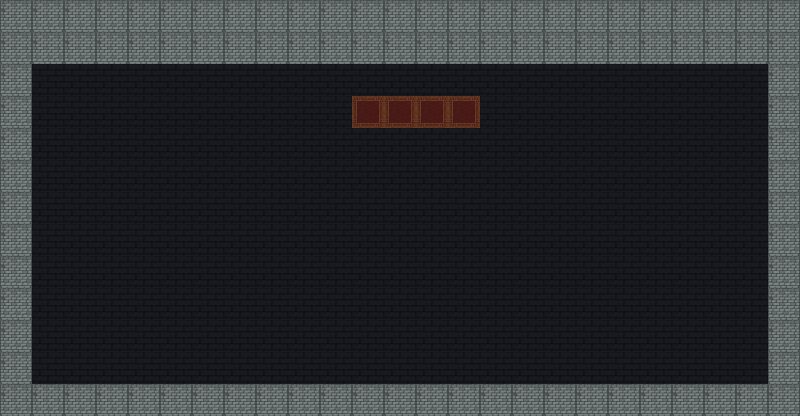
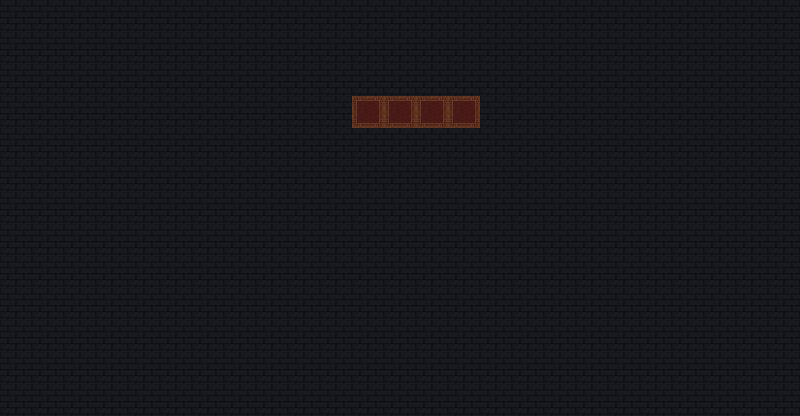
adding background images for all rooms

Changed region(s): [[0.0, 0.0, 1.0, 1.0]]

diff --git a/webgame/src/internal/mapLogic/engine/utils/BackgroundLayerUtils.ts b/webgame/src/internal/mapLogic/engine/utils/BackgroundLayerUtils.ts
@@ -2,9 +2,28 @@ import * as pako from 'pako'
 
 const tileSize = 32
 
-export function loadImage(): Promise<HTMLImageElement> {
-    const background_map_image = new Image()
-    background_map_image.src = '/assets/maps/rooms/background_map/background_map.png'
+export function loadImage(room_name: string): Promise<HTMLImageElement> {
+    let background_map_image = new Image()
+    switch (room_name) {
+        case 'room1':
+            background_map_image.src = '/assets/maps/rooms/room1/room1_background.png'
+            break
+        case 'room2':
+            background_map_image.src = '/assets/maps/rooms/room2/room2_background.png'
+            break
+        case 'room3':
+            background_map_image.src = '/assets/maps/rooms/room3/room3_background.png'
+            break
+        case 'room4':
+            background_map_image.src = '/assets/maps/rooms/room4/room4_background.png'
+            break
+        case 'boss_room':
+            background_map_image.src = '/assets/maps/rooms/boss_room/boss_background.png'
+            break
+        default:
+            console.log("background image not found")
+            background_map_image.src = ''
+    }
 
     return new Promise((resolve, reject) => {
         background_map_image.onload = () => {
@@ -20,6 +39,7 @@ export function loadImage(): Promise<HTMLImageElement> {
 
 export async function loadMapData(
     path: string,
+    room_name: string,
     canvas: HTMLCanvasElement,
     ctx: CanvasRenderingContext2D,
 ): Promise<HTMLImageElement | null> {
@@ -32,9 +52,9 @@ export async function loadMapData(
         }
 
         map_data = await res.json()
-        const image = await loadImage()
+        const image = await loadImage(room_name)
         return image
-        
+
         // const background_layer = map_data.layers.find(
         //     (layer: TiledLayer) => layer.name === 'background',
         // )
@@ -53,7 +73,7 @@ export async function loadMapData(
         console.error(err)
         return null
     }
-    
+
     // return results
 }
 

diff --git a/webgame/src/internal/mapLogic/engine/utils/ObjectLayerUtils.ts b/webgame/src/internal/mapLogic/engine/utils/ObjectLayerUtils.ts
@@ -6,7 +6,7 @@ import type {
     TiledObject,
     TiledProperty,
 } from '@/internal/mapLogic/engine/interfaces/Interfaces'
-import { populateRoom1, populateRoom2, populateRoom3, populateRoom4 } from '@/internal/mapLogic/engine/MapUtils.ts'
+import { populateRoom1, populateRoom2, populateRoom3, populateRoom4, populateBossRoom } from '@/internal/mapLogic/engine/MapUtils.ts'
 import { EntranceDoor } from '@/internal/mapLogic/objects/door/EntranceDoor'
 import { SwitchRoomDoor } from '@/internal/mapLogic/objects/door/SwitchRoomDoor'
 import { SwitchEntrance } from '@/internal/mapLogic/objects/SwitchEntrance'
@@ -174,6 +174,8 @@ export async function loadMapObjects(
             case 'room4':
                 populateRoom4(list_objects)
                 break
+            case 'boss_room':
+                populateBossRoom(list_objects)
             default:
                 break
         }

diff --git a/webgame/src/internal/GameHandler.ts b/webgame/src/internal/GameHandler.ts
@@ -76,7 +76,7 @@ export class GameHandler {
 
     async initialize() {
         this.currentRoomPath = getRoomPath(this.currentRoom)
-        this.bg_image = await loadMapData(this.currentRoomPath, this.canvas, this.ctx)
+        this.bg_image = await loadMapData(this.currentRoomPath, this.currentRoom, this.canvas, this.ctx)
         this.currentRoomObjects = (await loadMapObjects(
             this.currentRoom,
             this.currentRoomPath,
